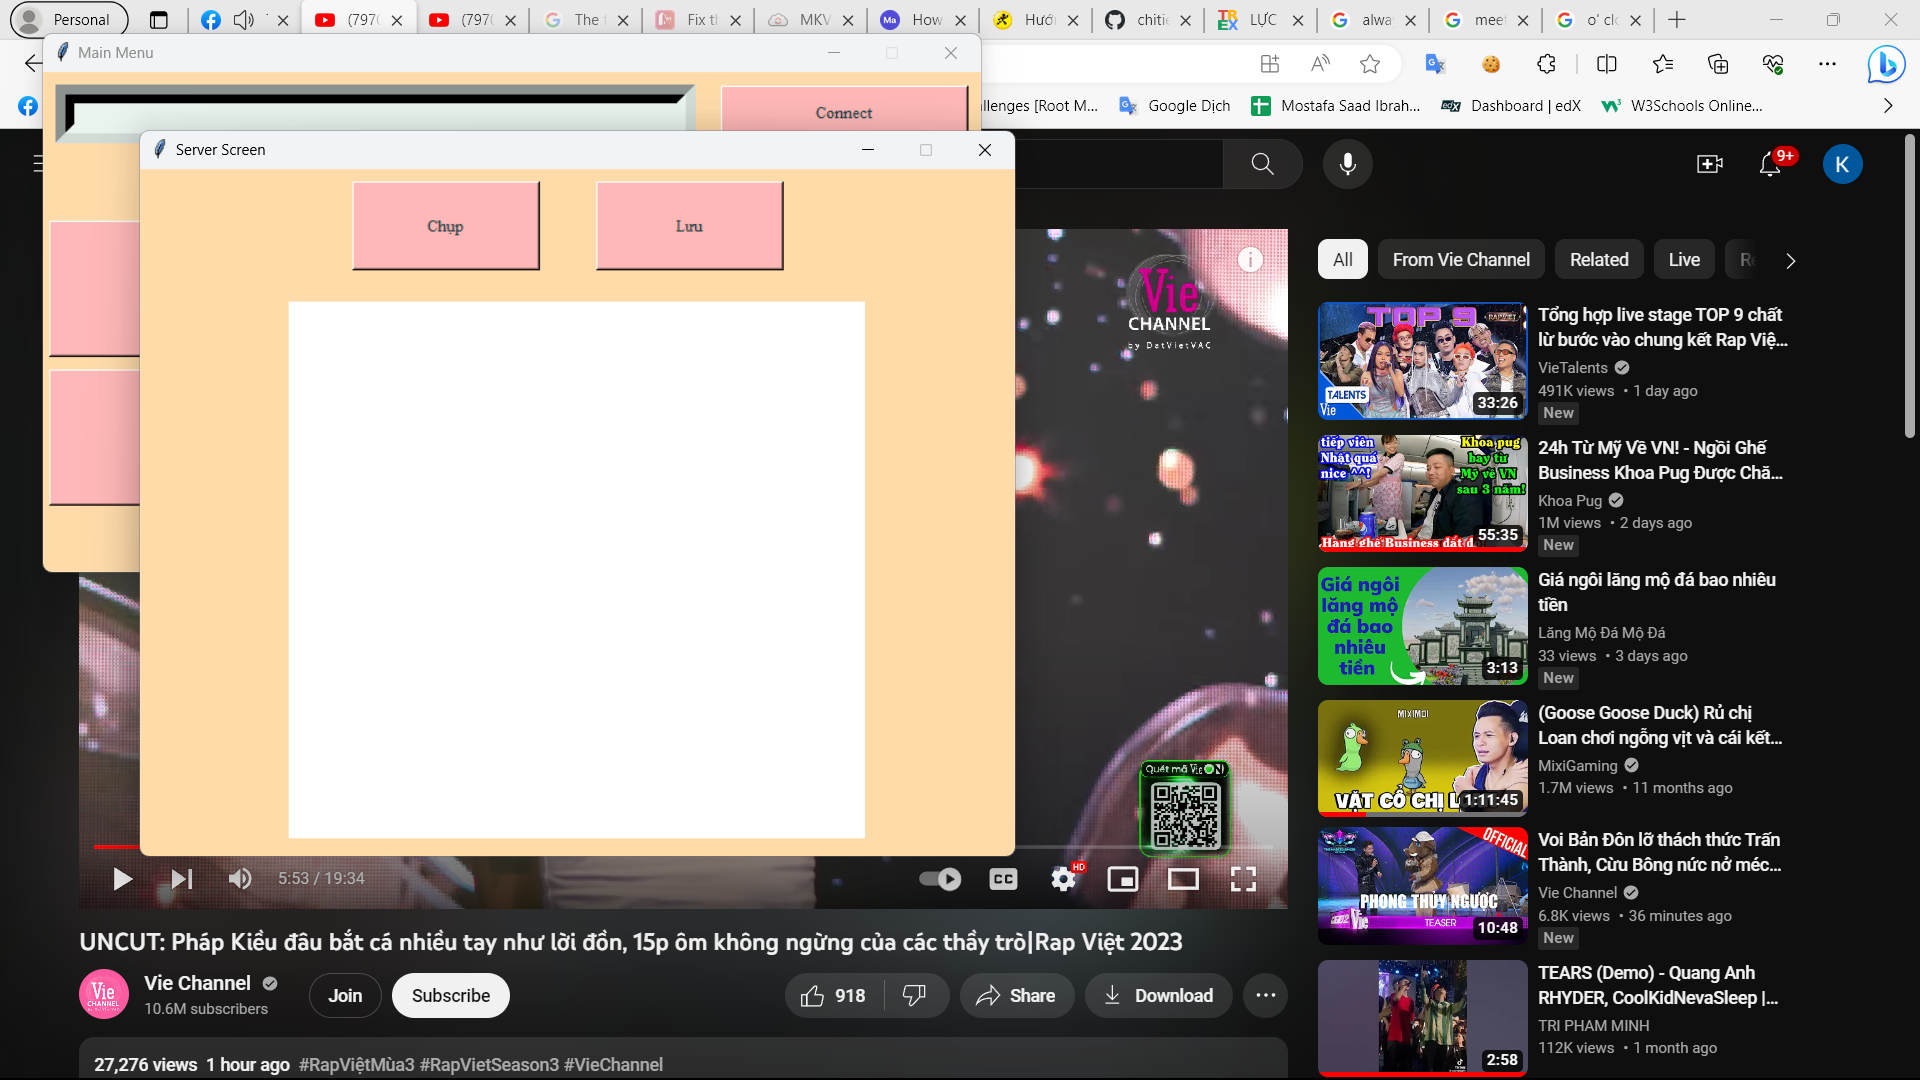
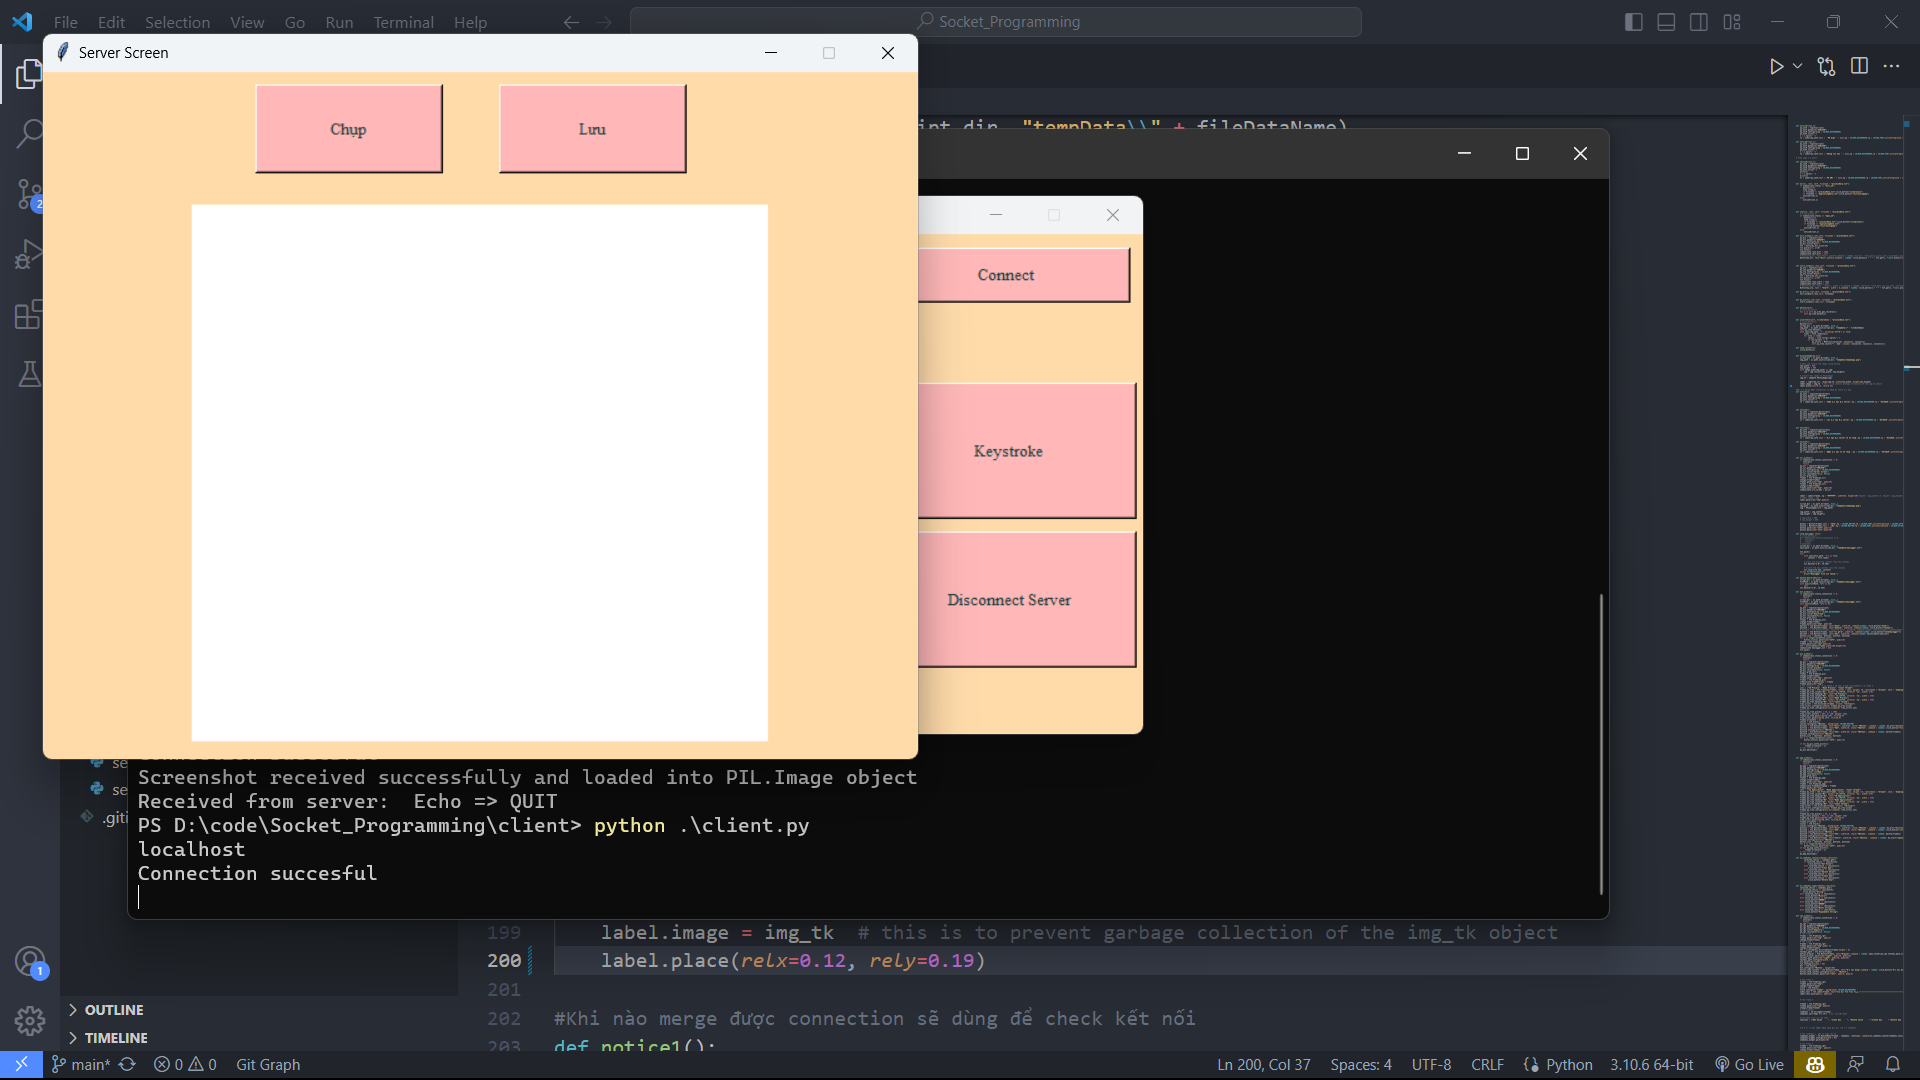
change display image

diff --git a/client/GUI/menuScreen.py b/client/GUI/menuScreen.py
@@ -5,7 +5,7 @@ from tkinter import ttk
 import tkinter as tk
 from tkinter import filedialog
 from tkinter import Toplevel, Label, Button, PhotoImage
-# from PIL import Image, ImageTk
+from PIL import Image, ImageTk
 from tkinter.scrolledtext import ScrolledText
 import queue
 import time
@@ -197,7 +197,7 @@ def displayImage(my_scr):
 
     label = Label(my_scr, image=img_tk, width=new_width, height=new_height)
     label.image = img_tk  # this is to prevent garbage collection of the img_tk object
-    label.place(relx=0.08, rely=0.1)
+    label.place(relx=0.12, rely=0.19)
 
 #Khi nào merge được connection sẽ dùng để check kết nối   
 def notice1():
